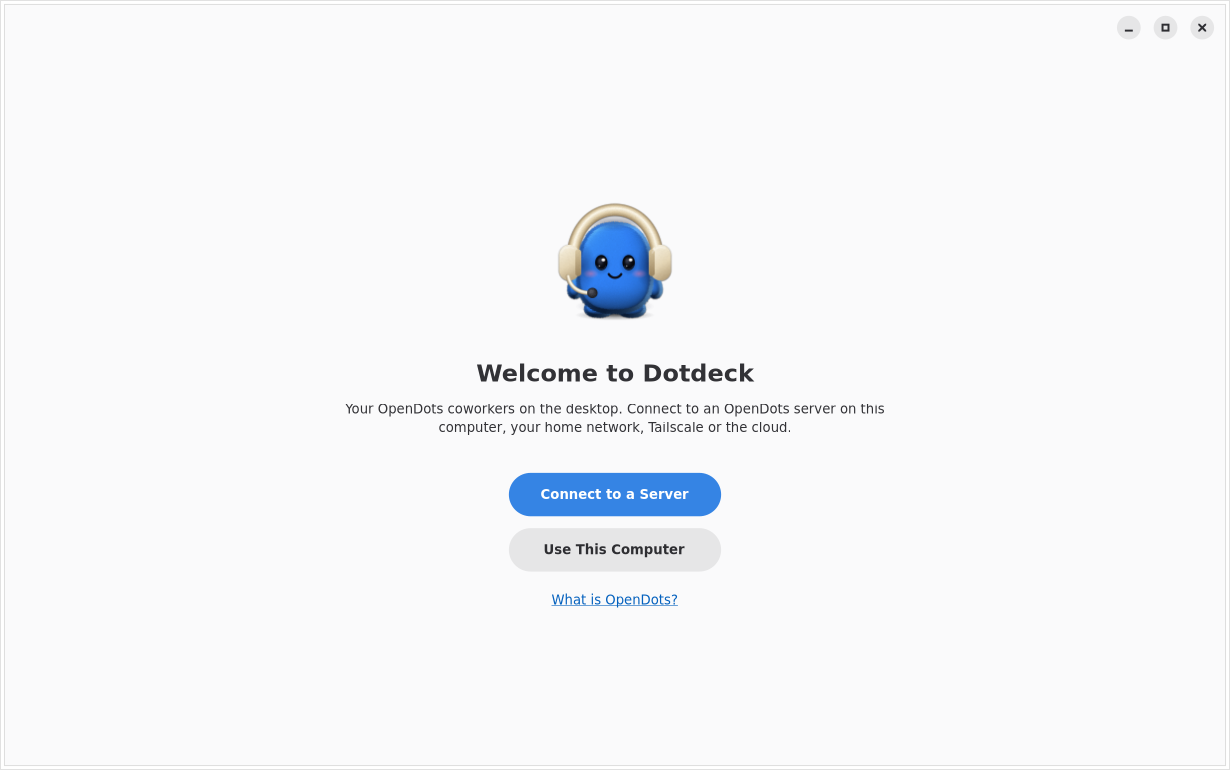
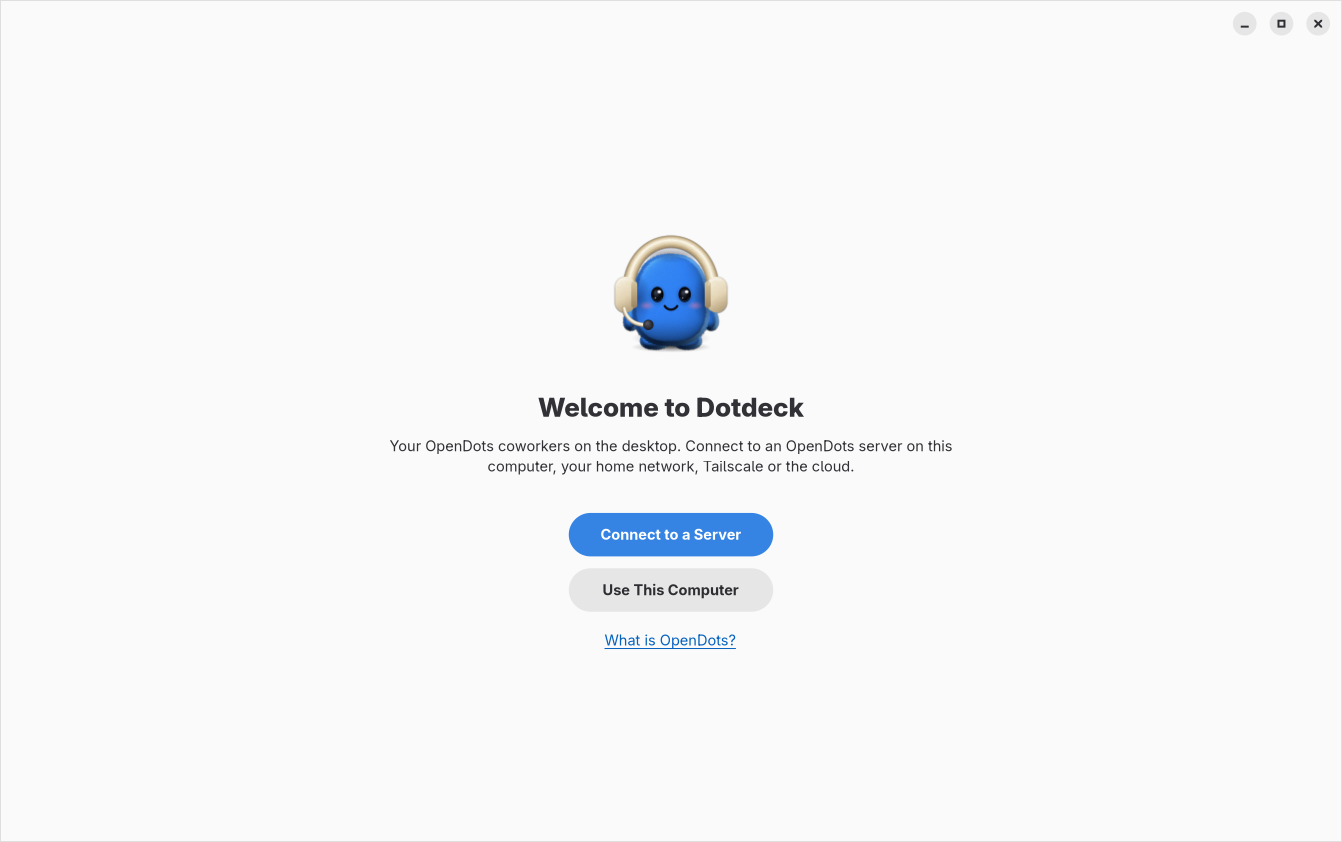
feat(capturas): Dots fictícios com Modelos de IA, em português e inglês, claro e escuro
- tools/demo_server.py responde GET /api/model-config (Claude Haiku 5.5 pelo
  OpenRouter, preços de demonstração, chaves por provedor e os modelos da
  chamada) e informa activeModel/activeProvider no /api/workspace; --lang pt
  dá Dots fictícios em português. Os nomes dos Dots e do servidor (Aurora)
  são genéricos.
- tools/screenshots.py ganha --demo CLIENT (sobe o demo numa porta livre),
  usa a fonte do GNOME (Adwaita Sans 11) em vez da DejaVu Sans do Xvfb,
  microfones fictícios e corta a moldura de 4 px que o GTK desenha sem
  compositor.
- make screenshots OPENDOTS_CLIENT=... gera data/screenshots (inglês, AppStream)
  e data/screenshots/pt_BR (site e loja, claro e escuro), agora com
  settings-model.png; o rodapé da barra mostra "Claude Haiku 5.5 · OpenRouter".
- pt_BR: "Pesquisar configurações", "Livre" e "Ocupado" cabem na fonte padrão
  do GNOME (antes eram cortados).

diff --git a/tools/demo_server.py b/tools/demo_server.py
@@ -5,10 +5,15 @@ It serves a real OpenDots web client build (the ``dist/client`` folder of an Ope
 checkout, after ``npm run build``) and answers the read-only API with fictional data,
 so screenshots never show anyone's real Dots:
 
-    python3 tools/demo_server.py --client ~/github/OpenDots/dist/client --port 4399
+    python3 tools/demo_server.py --client ~/OpenDots/dist/client --port 4399 [--lang pt]
+
+``--lang pt`` gives the Dots Portuguese names and jobs, for the pt_BR screenshots (the
+OpenDots page itself only speaks English). Everything here is made up: the Dots, the
+model settings (Claude Haiku 5.5 through OpenRouter) and the prices, which are demo
+values and not a price list.
 
 Chats need CopilotKit Intelligence and are not simulated: every Dot shows its empty
-conversation, which is what a new user sees.
+conversation, which is what a new user sees. Every change (POST, PUT…) answers 403.
 """
 
 from __future__ import annotations
@@ -24,54 +29,127 @@ from pathlib import Path
 TOKEN = "demo-owner-token-0123456789abcdef"
 NOW = int(time.time() * 1000)
 
-DOTS = [
-    ("Chief", "chief of staff, keeps everyone in sync",
-     "Coordinate the other Dots, keep a short daily brief and make sure nothing falls through."),
-    ("Researcher", "market and product research",
-     "Find reliable sources, compare options and summarize what matters with links."),
-    ("Writer", "posts, emails and documents",
-     "Draft clear, friendly text in the owner's voice and keep it short."),
-    ("Finance", "budgets, invoices and investments",
-     "Track spending against the budget, flag unusual charges and explain the numbers simply."),
-    ("Homelab", "keeps the home server healthy",
-     "Watch backups, updates and disk space, and fix small problems before they grow."),
-    ("Workshop", "code, scripts and automations",
-     "Write and test small scripts and automations in the sandbox before anything runs."),
-    ("Advisor", "strategy and second opinions",
-     "Challenge plans with good questions and lay out trade-offs before decisions."),
-    ("Scholar", "papers, citations and study plans",
-     "Read papers, keep citations straight and turn big topics into study plans."),
-]
-SPACES = [("Everyday", "Personal errands and notes"), ("Product launch", "Launch plan and copy"),
-          ("Home & infrastructure", "The homelab"), ("Research notes", "Sources and summaries")]
+# (name, job, instructions). The job is the first line of the instructions, which is
+# where Dotdeck reads it from; the words in it also pick each Dot's pet.
+DOTS = {
+    "en": [
+        ("Assistant", "plans the day and the other Dots",
+         "Coordinate the other Dots, keep a short daily brief and make sure nothing falls through."),
+        ("Research", "market and product research",
+         "Find reliable sources, compare options and summarize what matters with links."),
+        ("Writing", "posts, emails and documents",
+         "Draft clear, friendly text in the owner's voice and keep it short."),
+        ("Finance", "budgets, bills and investments",
+         "Track spending against the budget, flag unusual charges and explain the numbers simply."),
+        ("Upkeep", "backups and the home server",
+         "Watch backups, updates and disk space, and fix small problems before they grow."),
+        ("Lab", "code, scripts and automations",
+         "Write and test small scripts and automations in the sandbox before anything runs."),
+        ("Strategy", "strategy and second opinions",
+         "Challenge plans with good questions and lay out trade-offs before decisions."),
+        ("Study", "courses, languages and study plans",
+         "Turn big topics into study plans, quiz the owner and keep track of progress."),
+    ],
+    "pt": [
+        ("Assistente", "organiza o dia e os outros Dots",
+         "Coordene os outros Dots, faça um resumo curto do dia e não deixe nada escapar."),
+        ("Pesquisa", "pesquisa de mercado e de produtos",
+         "Encontre fontes confiáveis, compare opções e resuma o que importa com os links."),
+        ("Redação", "posts, e-mails e documentos",
+         "Escreva textos claros e simpáticos, no tom do dono, e sempre curtos."),
+        ("Finanças", "orçamento, contas e investimentos",
+         "Acompanhe os gastos, avise sobre cobranças estranhas e explique os números."),
+        ("Manutenção", "backups e o servidor de casa",
+         "Cuide dos backups, das atualizações e do espaço em disco antes que virem problema."),
+        ("Laboratório", "código, scripts e automações",
+         "Escreva e teste scripts e automações no sandbox antes de rodar qualquer coisa."),
+        ("Estratégia", "estratégia e segundas opiniões",
+         "Questione os planos com boas perguntas e mostre os prós e contras antes de decidir."),
+        ("Estudos", "cursos, idiomas e planos de estudo",
+         "Transforme temas grandes em planos de estudo, faça revisões e acompanhe o progresso."),
+    ],
+}
+SPACES = {
+    "en": [("Everyday", "Personal errands and notes"), ("Product launch", "Launch plan and copy"),
+           ("Home", "The house and the home server"), ("Research notes", "Sources and summaries")],
+    "pt": [("Dia a dia", "Tarefas e anotações pessoais"),
+           ("Lançamento", "Plano e textos do lançamento"),
+           ("Casa", "A casa e o servidor de casa"), ("Pesquisas", "Fontes e resumos")],
+}
+TASKS = {"en": "Weekly market summary", "pt": "Resumo semanal do mercado"}
+MEMORIES = {
+    "en": ["Prefers short answers", "Likes examples", "Budget review on Fridays"],
+    "pt": ["Prefere respostas curtas", "Gosta de exemplos", "Revisão do orçamento às sextas"],
+}
+
+OPENROUTER_URL = "https://openrouter.ai/api/v1"
+ANTHROPIC_URL = "https://api.anthropic.com/v1/"
 
 
-def workspace() -> dict:
+def _preset(model_id: str, name: str, provider: str, price, speed: str) -> dict:
+    return {"id": model_id, "name": name, "provider": provider,
+            "price": {"input": price[0], "output": price[1]} if price else None,
+            "speed": speed, "note": ""}
+
+
+# What GET /api/model-config answers on a server set up with Dotdeck 0.3.3 or newer.
+MODEL_CONFIG = {
+    "model": "anthropic/claude-haiku-5.5", "modelName": "Claude Haiku 5.5",
+    "provider": "openrouter", "baseUrl": OPENROUTER_URL, "configured": True,
+    "price": {"input": 0.10, "output": 0.50}, "hasApiKey": True,
+    "keys": {"openrouter": True, "anthropic": False, "openai-compatible": False},
+    "providers": [
+        {"id": "openrouter", "name": "OpenRouter", "hasKey": True, "baseUrl": OPENROUTER_URL},
+        {"id": "anthropic", "name": "Anthropic", "hasKey": False, "baseUrl": ANTHROPIC_URL},
+        {"id": "openai-compatible", "name": "OpenAI-compatible", "hasKey": False,
+         "baseUrl": None},
+    ],
+    "voiceModel": "openai/gpt-audio-mini", "voiceName": "marin", "hasVoiceKey": False,
+    "voiceReady": True, "voiceGateway": True,
+    "presets": [
+        _preset("anthropic/claude-haiku-5.5", "Claude Haiku 5.5", "openrouter", (0.10, 0.50),
+                "fast"),
+        _preset("anthropic/claude-sonnet-5.5", "Claude Sonnet 5.5", "openrouter", (1.0, 5.0),
+                "balanced"),
+        _preset("claude-haiku-5-5", "Claude Haiku 5.5", "anthropic", (0.10, 0.50), "fast"),
+        _preset("claude-sonnet-5-5", "Claude Sonnet 5.5", "anthropic", (1.0, 5.0), "balanced"),
+        _preset("claude-opus-5-5", "Claude Opus 5.5", "anthropic", None, "deep"),
+    ],
+    "call": {"voiceModel": "openai/gpt-audio-mini",
+             "transcribeModel": "google/gemini-2.5-flash-lite",
+             "thinkingModel": "anthropic/claude-haiku-5.5", "gateway": True,
+             "voiceName": "marin"},
+}
+
+
+def workspace(lang: str = "en") -> dict:
     spaces = [{"id": f"space-{i}", "name": name, "description": text, "createdAt": NOW - i}
-              for i, (name, text) in enumerate(SPACES)]
+              for i, (name, text) in enumerate(SPACES[lang])]
     dots = [{"id": f"dot-{i}", "spaceId": "space-0", "spaceIds": ["space-0"], "name": name,
              "instructions": f"# {name} — {job}\n\n{text}", "researchAllowed": True,
              "memoryAllowed": True, "createdAt": NOW - 10_000 + i, "learningContainerId": None,
              "skillDeliveryEnabled": False}
-            for i, (name, job, text) in enumerate(DOTS)]
+            for i, (name, job, text) in enumerate(DOTS[lang])]
     return {"spaces": spaces, "dots": dots, "conversations": [], "calls": [],
             "setup": {"intelligence": True, "model": True, "browser": True, "voice": True,
-                      "slack": "not_configured", "missing": []}}
+                      "slack": "not_configured", "missing": []},
+            # What a Dotdeck-ready OpenDots adds: the model in use, for the sidebar footer.
+            "activeModel": MODEL_CONFIG["model"], "activeProvider": MODEL_CONFIG["provider"]}
 
 
-def state() -> dict:
+def state(lang: str = "en") -> dict:
     return {"settings": {"name": "OpenDots Demo", "paused": False, "researchAllowed": True,
                          "memoryAllowed": True},
-            "tasks": [{"id": "task-1", "prompt": "Weekly market summary", "status": "running",
+            "tasks": [{"id": "task-1", "prompt": TASKS[lang], "status": "running",
                        "intervalSeconds": 604800, "nextRunAt": NOW + 3600_000, "createdAt": NOW}],
-            "memories": [{"id": f"m{i}", "text": text, "createdAt": NOW - i} for i, text in
-                         enumerate(["Prefers short answers", "Works from Lisbon",
-                                    "Budget review on Fridays"])],
+            "memories": [{"id": f"m{i}", "text": text, "createdAt": NOW - i}
+                         for i, text in enumerate(MEMORIES[lang])],
             "mode": "live", "configured": True}
 
 
 class Handler(BaseHTTPRequestHandler):
     client: Path
+    lang: str = "en"
 
     def log_message(self, *_args) -> None:
         pass
@@ -93,9 +171,11 @@ class Handler(BaseHTTPRequestHandler):
             if self.headers.get("Authorization") != f"Bearer {TOKEN}":
                 self._json(401, {"error": "Enter your owner access token to continue."})
             elif path == "/api/state":
-                self._json(200, state())
+                self._json(200, state(self.lang))
             elif path == "/api/workspace":
-                self._json(200, workspace())
+                self._json(200, workspace(self.lang))
+            elif path == "/api/model-config":
+                self._json(200, MODEL_CONFIG)
             elif path.startswith("/api/copilotkit/threads"):
                 self._json(200, {"threads": [], "nextCursor": None})
             else:
@@ -113,8 +193,10 @@ class Handler(BaseHTTPRequestHandler):
     do_PUT = do_PATCH = do_DELETE = do_POST
 
 
-def serve(client: Path, port: int = 0) -> ThreadingHTTPServer:
-    handler = type("DemoHandler", (Handler,), {"client": client.resolve()})
+def serve(client: Path, port: int = 0, lang: str = "en") -> ThreadingHTTPServer:
+    """Start the demo on a thread; ``lang`` is "en" or "pt" (any "pt…" counts)."""
+    lang = "pt" if lang.lower().startswith("pt") else "en"
+    handler = type("DemoHandler", (Handler,), {"client": client.resolve(), "lang": lang})
     server = ThreadingHTTPServer(("127.0.0.1", port), handler)
     threading.Thread(target=server.serve_forever, daemon=True).start()
     return server
@@ -125,8 +207,9 @@ if __name__ == "__main__":
                                      formatter_class=argparse.RawDescriptionHelpFormatter)
     parser.add_argument("--client", type=Path, required=True)
     parser.add_argument("--port", type=int, default=4399)
+    parser.add_argument("--lang", default="en", help="en (default) or pt")
     args = parser.parse_args()
-    httpd = serve(args.client, args.port)
+    httpd = serve(args.client, args.port, args.lang)
     print(f"Demo OpenDots on http://127.0.0.1:{httpd.server_port} (token {TOKEN})")
     try:
         threading.Event().wait()

diff --git a/tools/screenshots.py b/tools/screenshots.py
@@ -1,13 +1,17 @@
 #!/usr/bin/env python3
 """Drive Dotdeck through its main screens and save screenshots (also a UI smoke test).
 
-    python3 tools/screenshots.py [--smoke] [--dark] [--url URL --token TOKEN] [--out DIR]
+    python3 tools/screenshots.py [--smoke] [--dark] [--demo CLIENT | --url URL --token TOKEN]
+                                 [--out DIR]
 
-Without ``--url`` it serves a stand-in OpenDots page (tests/fake_server.py, which mimics
-the real web client's layout). For store pictures, run tools/demo_server.py (fictional
-Dots on the real OpenDots client) and point ``--url``/``--token`` at it. It never touches
-your own config or keyring: everything lives in a temporary folder and tokens stay in
-memory.
+Without ``--url`` or ``--demo`` it serves a stand-in OpenDots page (tests/fake_server.py,
+which mimics the real web client's layout). For the store, the site and AppStream, use
+``--demo <OpenDots>/dist/client``: tools/demo_server.py then serves fictional Dots on the
+real OpenDots client, in Portuguese when ``LANGUAGE``/``LANG`` say pt (``make
+screenshots`` does both languages, light and dark). It never touches your own config or
+keyring: everything lives in a temporary folder and tokens stay in memory. The pictures
+use the GNOME interface font (Adwaita Sans 11) and made-up microphones and speakers, so
+they look like a stock GNOME desktop and show nothing of this computer.
 """
 
 from __future__ import annotations
@@ -27,6 +31,21 @@ for _name in ("XDG_CONFIG_HOME", "XDG_DATA_HOME", "XDG_CACHE_HOME"):
 os.environ["DOTDECK_SECRETS"] = "memory"
 os.environ.setdefault("DOTDECK_TEST_AUDIO", "1")
 
+# GNOME's interface font for the app and the page (a bare X server falls back to DejaVu
+# Sans). The rule comes before the system configuration so it wins over its defaults.
+FONT = "Adwaita Sans"
+_FONTS_CONF = os.path.join(_TMP, "fonts.conf")
+with open(_FONTS_CONF, "w", encoding="utf-8") as _conf:
+    _conf.write(f"""<?xml version="1.0"?>
+<!DOCTYPE fontconfig SYSTEM "fonts.dtd">
+<fontconfig>
+  <alias binding="strong"><family>sans-serif</family><prefer><family>{FONT}</family></prefer></alias>
+  <alias binding="strong"><family>system-ui</family><prefer><family>{FONT}</family></prefer></alias>
+  <include ignore_missing="yes">/etc/fonts/fonts.conf</include>
+</fontconfig>
+""")
+os.environ.setdefault("FONTCONFIG_FILE", _FONTS_CONF)
+
 import gi  # noqa: E402
 
 gi.require_version("Gtk", "4.0")
@@ -35,16 +54,33 @@ gi.require_version("Graphene", "1.0")
 from gi.repository import GLib, Graphene, Gtk  # noqa: E402
 
 from src import main as dotdeck  # noqa: E402
+from src.core import voice  # noqa: E402
 from tests.fake_server import MODEL_CONFIG, FakeOpenDots  # noqa: E402
 
-DEMO_JOBS = {
-    "Chief": "chief of staff, keeps everyone in sync",
-    "Researcher": "market and product research",
-    "Writer": "posts, emails and documents",
-    "Finance": "budgets, invoices and investments",
-    "Homelab": "keeps the home server healthy",
-    "Workshop": "code, scripts and automations",
-}
+sys.path.insert(0, str(ROOT / "tools"))
+import demo_server  # noqa: E402
+
+# The stand-in page (no --url, no --demo) gets the first six demo Dots.
+DEMO_JOBS = {name: job for name, job, _text in demo_server.DOTS["en"][:6]}
+
+
+def language() -> str:
+    """"pt" when the app will speak Portuguese (gettext reads LANGUAGE, then LANG)."""
+    for name in ("LANGUAGE", "LC_ALL", "LC_MESSAGES", "LANG"):
+        value = os.environ.get(name)
+        if value:
+            return "pt" if value.lower().startswith("pt") else "en"
+    return "en"
+
+
+def fictional_audio() -> None:
+    """Made-up microphones and speakers: the pictures never name this computer's."""
+    builtin = "Áudio interno Estéreo analógico" if language() == "pt" \
+        else "Built-in Audio Analog Stereo"
+    devices = {"source": [voice.AudioDevice("demo-builtin-mic", builtin)],
+               "sink": [voice.AudioDevice("demo-builtin-speaker", builtin)]}
+    voice.list_devices = lambda kind: list(devices[kind])
+    voice.default_device_name = lambda kind: builtin
 
 
 def pump(seconds: float) -> None:
@@ -66,6 +102,9 @@ def wait(predicate, timeout: float = 20.0) -> bool:
     return predicate()
 
 
+FRAME = 4  # px around the window drawn by GTK when there is no compositor
+
+
 def capture(window: Gtk.Window, path: Path) -> None:
     node = None
     for _attempt in range(10):  # a page switch can leave one frame empty
@@ -79,7 +118,9 @@ def capture(window: Gtk.Window, path: Path) -> None:
             break
     if node is None:
         raise RuntimeError("nothing was drawn")
-    rect = Graphene.Rect().init(0, 0, width, height)
+    # Without a compositor (Xvfb) GTK frames the window with a 1 px line and 3 px of
+    # padding outside its own border; drop them so the picture ends at the window edge.
+    rect = Graphene.Rect().init(FRAME, FRAME, width - 2 * FRAME, height - 2 * FRAME)
     texture = window.get_renderer().render_texture(node, rect)
     texture.save_to_png(str(path))
     print(path)
@@ -88,8 +129,13 @@ def capture(window: Gtk.Window, path: Path) -> None:
 def run(args) -> int:
     out = Path(args.out)
     out.mkdir(parents=True, exist_ok=True)
-    fake = None
+    fake = demo = None
     url, token = args.url, args.token or ""
+    if args.demo:
+        demo = demo_server.serve(Path(args.demo), 0, language())
+        url, token = f"http://127.0.0.1:{demo.server_port}", demo_server.TOKEN
+    if not args.smoke:
+        fictional_audio()
     if not url:
         fake = FakeOpenDots(name="OpenDots Demo", dots=list(DEMO_JOBS), opendots=True,
                             instructions={n: f"# {n} — {j}\n\nHelps the owner."
@@ -105,6 +151,7 @@ def run(args) -> int:
     def scenario():
         try:
             app.settings.set("color-scheme", "dark" if args.dark else "light")
+            Gtk.Settings.get_default().set_property("gtk-font-name", f"{FONT} 11")
             app.settings.set("global-shortcut", False)  # no portal dialogs in CI
             window = app.window
             window.set_default_size(args.width, args.height)
@@ -183,6 +230,8 @@ def run(args) -> int:
     status = app.run([sys.argv[0]])
     if fake:
         fake.stop()
+    if demo:
+        demo.shutdown()
     if failures:
         print(f"failures: {failures}")
     return 1 if failures or status else 0
@@ -192,9 +241,11 @@ if __name__ == "__main__":
     parser = argparse.ArgumentParser()
     parser.add_argument("--smoke", action="store_true")
     parser.add_argument("--dark", action="store_true")
+    parser.add_argument("--demo", metavar="CLIENT",
+                        help="serve tools/demo_server.py with this OpenDots dist/client")
     parser.add_argument("--url")
     parser.add_argument("--token")
-    parser.add_argument("--name", default="Homelab")
+    parser.add_argument("--name", default="Aurora")
     parser.add_argument("--width", type=int, default=1360)
     parser.add_argument("--height", type=int, default=860)
     parser.add_argument("--out", default=str(ROOT / "data" / "screenshots"))
